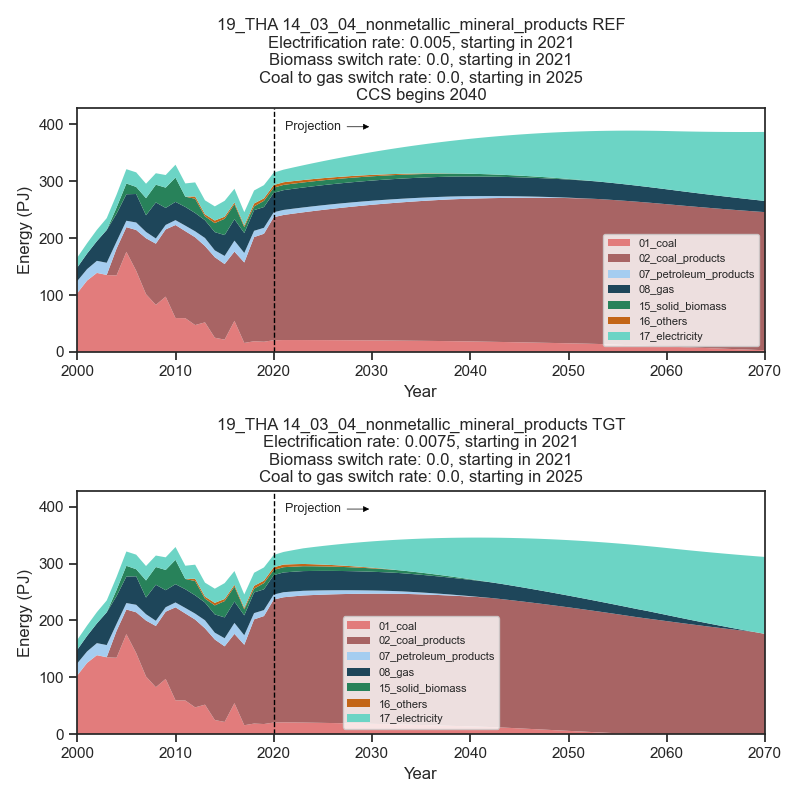
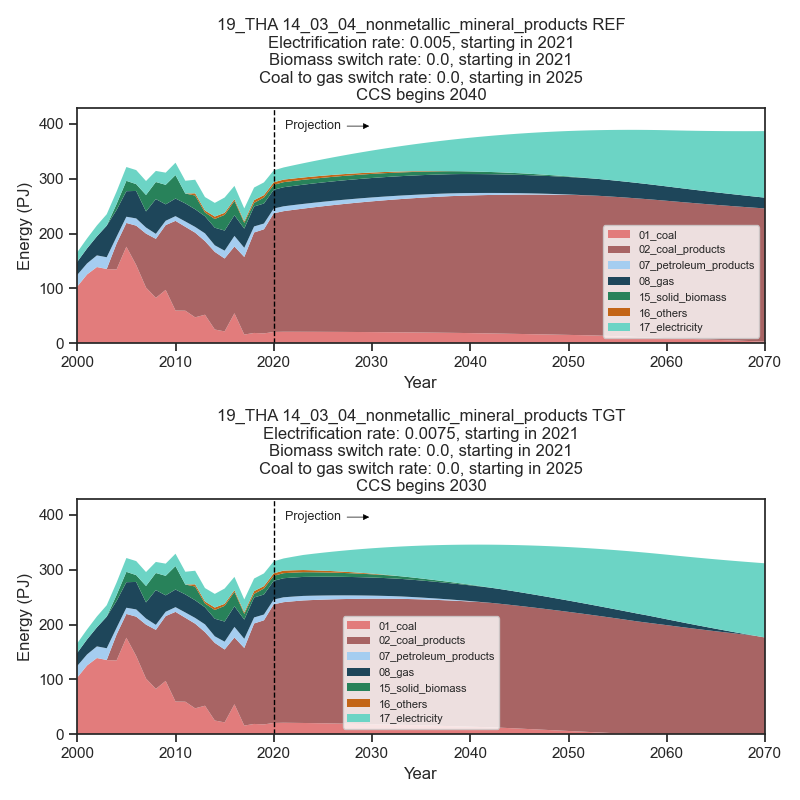
CCS_update II

Changed region(s): [[0.0, 0.1875, 0.9688, 0.8438], [0.0312, 0.625, 0.0938, 0.6562], [0.0625, 0.8438, 0.0938, 0.875]]

diff --git a/workflow/scripts/f2_fuel_switch_function.py b/workflow/scripts/f2_fuel_switch_function.py
@@ -94,12 +94,17 @@ def fuel_switch(economy = '01_AUS',
                 hyd_start_tgt = 2030,
                 hyd_increment_ref = 0.005,
                 hyd_increment_tgt = 0.01,
+                ccs_additional = 0.2,
                 ccs_ref = False,
                 ccs_tgt = False,
                 ccs_start_ref = 2040,
                 ccs_start_tgt = 2030,
                 ccs_increment_ref = 0.005,
-                ccs_increment_tgt = 0.01):
+                ccs_increment_tgt = 0.0075):
+    """Function to layer in different types of fuel switching for all APEC economies and for all inustry subsectors.
+    Electrification, biomass switching, and coal-to-gas are first incorporated by specifying start date and pace of switch.
+    Next hydrogen-based production is chosen, along with a start date and rate. The same is in place for CCS technologies.
+    CCS also require assumption about additional energy required for CCS unit."""
     
     # Save location for charts and data
     save_location = './results/industry/3_fuel_switch/{}/'.format(economy)
@@ -387,62 +392,75 @@ def fuel_switch(economy = '01_AUS',
         
         hyd_ref.to_csv(hyd_ccs_location + economy + '_' + sector + '_hydrogen_ref.csv', index = False)
 
-        # Set-up for CCS (require snapshot of switched_ref for calcs below)
-        switched_ref_calcs2 = switched_ref.copy()
+    # Set-up for CCS (require snapshot of switched_ref for calcs below)
+    switched_ref_calcs2 = switched_ref.copy()
 
-        # Now layer in CCS for REF
-        if (sector in (ind2[:2] + ind2[3:4])) & (ccs_ref):
-            ccs_reference = ccs_tech(start_year = ccs_start_ref, increment = ccs_increment_ref)
-            ccs_ref_df = pd.DataFrame()
-            for ccs_year in range(ccs_start_ref, proj_years[-1] + 1, 1):
-                ccs_df = switched_ref.loc[switched_ref['year'] == ccs_year, ['fuels', 'energy']].copy().reset_index(drop = True)
-                ccs_df = ccs_df[ccs_df['fuels'].isin(ccs_fuels)].copy().reset_index(drop = True)
+    # Now layer in CCS for REF
+    if (sector in (ind2[:2] + ind2[3:4])) & (ccs_ref):
+        ccs_reference = ccs_tech(start_year = ccs_start_ref, increment = ccs_increment_ref)
+        ccs_ref_df = pd.DataFrame()
+        for ccs_year in range(ccs_start_ref, proj_years[-1] + 1, 1):
+            ccs_df = switched_ref.loc[switched_ref['year'] == ccs_year, ['fuels', 'energy']].copy().reset_index(drop = True)
+            ccs_df = ccs_df[ccs_df['fuels'].isin(ccs_fuels)].copy().reset_index(drop = True)
+            
+            ccs_df['share'] = ccs_df['energy'] / total_ref[ccs_year]
+            ccs_df['year'] = ccs_year
+            ccs_df['new_energy'] = ccs_df['energy'] * ccs_reference.loc[ccs_reference['year'] == ccs_year, 'share'].values[0]
+
+            # Amend original data frame
+            for fuel in ccs_df['fuels'].unique():
+                relevant_fuel = (switched_ref['fuels'] == fuel)
+                relevant_year = (switched_ref['year'] == ccs_year)
+                switched_ref.loc[(relevant_fuel) & (relevant_year), 'energy'] = switched_ref_calcs2.loc[(relevant_fuel) & (relevant_year), 'energy'].values[0] *\
+                    (1 - ccs_reference.loc[ccs_reference['year'] == ccs_year, 'share'].values[0])
                 
-                ccs_df['share'] = ccs_df['energy'] / total_ref[ccs_year]
-                ccs_df['year'] = ccs_year
-                ccs_df['new_energy'] = ccs_df['energy'] * ccs_reference.loc[ccs_reference['year'] == ccs_year, 'share'].values[0]
-
-                # Amend original data frame
-                for fuel in ccs_df['fuels'].unique():
-                    relevant_fuel = (switched_ref['fuels'] == fuel)
-                    relevant_year = (switched_ref['year'] == ccs_year)
-                    switched_ref.loc[(relevant_fuel) & (relevant_year), 'energy'] = switched_ref_calcs2.loc[(relevant_fuel) & (relevant_year), 'energy'].values[0] *\
-                        (1 - ccs_reference.loc[ccs_reference['year'] == ccs_year, 'share'].values[0])
-
-                ccs_ref_df = pd.concat([ccs_ref_df, ccs_df]).copy().reset_index(drop = True)
+            ccs_energy = ccs_df[ccs_df['year'] == ccs_year]['energy'].sum()
+                
+            # Now add in additional electricity to run the CCS unit
+            additional_data = ['17_electricity', 0.0, ccs_additional, ccs_year, 
+                              ccs_additional * ccs_energy * ccs_reference.loc[ccs_reference['year'] == ccs_year, 'share'].values[0]]
             
-            # Metadata
-            ccs_ref_df['scenarios'] = 'reference'
-            ccs_ref_df['economy'] = economy
-            ccs_ref_df['sectors'] = '14_industry_sector'
-            ccs_ref_df['sub1sectors'] = '14_03_manufacturing'
-            ccs_ref_df['sub2sectors'] = sector
-            if sector == ind2[0]:
-                ccs_ref_df['sub3sectors'] = '14_03_01_03_ccs'
-            elif sector == ind2[1]:
-                ccs_ref_df['sub3sectors'] = '14_03_02_02_ccs'
-            elif sector == ind2[3]:
-                ccs_ref_df['sub3sectors'] = '14_03_04_01_ccs'
-            ccs_ref_df['subfuels'] = 'x'
+            additional_df = pd.DataFrame(additional_data).transpose()
+            additional_df.columns = ccs_df.columns
 
-            ccs_ref_df = ccs_ref_df[['scenarios', 'economy', 'sectors', 'sub1sectors', 'sub2sectors', 'sub3sectors', 'fuels', 'subfuels', 'year', 'new_energy']].copy()\
-                .rename(columns = {'new_energy': 'energy'}).sort_values(['year', 'fuels']).reset_index(drop = True)
-            
-            ccs_ref_df.to_csv(hyd_ccs_location + economy + '_' + sector + '_ccs_ref.csv', index = False) 
+            ccs_df = pd.concat([ccs_df, additional_df])
 
-        # Now aggregate hydorgen results with steel
-        switched_ref = switched_ref.merge(hyd_ref.drop(['sub3sectors'], axis = 1), how = 'outer',
-                                          on = ['scenarios', 'economy', 'sectors', 'sub1sectors', 'sub2sectors', 'fuels', 'subfuels', 'year']).reset_index(drop = True)
+            ccs_ref_df = pd.concat([ccs_ref_df, ccs_df]).copy().reset_index(drop = True)
         
-        switched_ref['energy'] = switched_ref['energy_x'].fillna(0) + switched_ref['energy_y'].fillna(0)        
-        switched_ref = switched_ref.drop(['energy_x', 'energy_y'], axis = 1)
+        # Metadata
+        ccs_ref_df['scenarios'] = 'reference'
+        ccs_ref_df['economy'] = economy
+        ccs_ref_df['sectors'] = '14_industry_sector'
+        ccs_ref_df['sub1sectors'] = '14_03_manufacturing'
+        ccs_ref_df['sub2sectors'] = sector
+        if sector == ind2[0]:
+            ccs_ref_df['sub3sectors'] = '14_03_01_03_ccs'
+        elif sector == ind2[1]:
+            ccs_ref_df['sub3sectors'] = '14_03_02_02_ccs'
+        elif sector == ind2[3]:
+            ccs_ref_df['sub3sectors'] = '14_03_04_01_ccs'
+        ccs_ref_df['subfuels'] = 'x'
+
+        ccs_ref_df = ccs_ref_df[['scenarios', 'economy', 'sectors', 'sub1sectors', 'sub2sectors', 'sub3sectors', 'fuels', 'subfuels', 'year', 'new_energy']].copy()\
+            .rename(columns = {'new_energy': 'energy'}).sort_values(['year', 'fuels']).reset_index(drop = True)
+        
+        ccs_ref_df.to_csv(hyd_ccs_location + economy + '_' + sector + '_ccs_ref.csv', index = False) 
+
+        # Now aggregate hydorgen-based production results
+        if hydrogen_ref: 
+            switched_ref = switched_ref.merge(hyd_ref.drop(['sub3sectors'], axis = 1), how = 'outer',
+                                            on = ['scenarios', 'economy', 'sectors', 'sub1sectors', 'sub2sectors', 'fuels', 'subfuels', 'year']).reset_index(drop = True)
+            
+            switched_ref['energy'] = switched_ref['energy_x'].fillna(0) + switched_ref['energy_y'].fillna(0)        
+            switched_ref = switched_ref.drop(['energy_x', 'energy_y'], axis = 1)
 
         # Now do the same addition but for the CCS results
-        switched_ref = switched_ref.merge(ccs_ref_df.drop(['sub3sectors'], axis = 1), how = 'outer',
-                                          on = ['scenarios', 'economy', 'sectors', 'sub1sectors', 'sub2sectors', 'fuels', 'subfuels', 'year']).reset_index(drop = True)
-        
-        switched_ref['energy'] = switched_ref['energy_x'].fillna(0) + switched_ref['energy_y'].fillna(0)
-        switched_ref = switched_ref.drop(['energy_x', 'energy_y'], axis = 1)
+        if ccs_ref:
+            switched_ref = switched_ref.merge(ccs_ref_df.drop(['sub3sectors'], axis = 1), how = 'outer',
+                                            on = ['scenarios', 'economy', 'sectors', 'sub1sectors', 'sub2sectors', 'fuels', 'subfuels', 'year']).reset_index(drop = True)
+            
+            switched_ref['energy'] = switched_ref['energy_x'].fillna(0) + switched_ref['energy_y'].fillna(0)
+            switched_ref = switched_ref.drop(['energy_x', 'energy_y'], axis = 1)
 
         switched_ref = switched_ref.sort_values(['year', 'fuels']).copy().reset_index(drop = True)
 
@@ -533,62 +551,75 @@ def fuel_switch(economy = '01_AUS',
         
         hyd_tgt.to_csv(hyd_ccs_location + economy + '_' + sector + '_hydrogen_tgt.csv', index = False)
 
-        # Set-up for CCS (require snapshot of switched_ref for calcs below)
-        switched_tgt_calcs2 = switched_tgt.copy()
+    # Set-up for CCS (require snapshot of switched_ref for calcs below)
+    switched_tgt_calcs2 = switched_tgt.copy()
 
-        # Now layer in CCS for TGT
-        if (sector in (ind2[:2] + ind2[3:4])) & (ccs_tgt):
-            ccs_target = ccs_tech(start_year = ccs_start_tgt, increment = ccs_increment_tgt)
-            ccs_tgt_df = pd.DataFrame()
-            for ccs_year in range(ccs_start_tgt, proj_years[-1] + 1, 1):
-                ccs_df = switched_tgt.loc[switched_tgt['year'] == ccs_year, ['fuels', 'energy']].copy().reset_index(drop = True)
-                ccs_df = ccs_df[ccs_df['fuels'].isin(ccs_fuels)].copy().reset_index(drop = True)
+    # Now layer in CCS for TGT
+    if (sector in (ind2[:2] + ind2[3:4])) & (ccs_tgt):
+        ccs_target = ccs_tech(start_year = ccs_start_tgt, increment = ccs_increment_tgt)
+        ccs_tgt_df = pd.DataFrame()
+        for ccs_year in range(ccs_start_tgt, proj_years[-1] + 1, 1):
+            ccs_df = switched_tgt.loc[switched_tgt['year'] == ccs_year, ['fuels', 'energy']].copy().reset_index(drop = True)
+            ccs_df = ccs_df[ccs_df['fuels'].isin(ccs_fuels)].copy().reset_index(drop = True)
+            
+            ccs_df['share'] = ccs_df['energy'] / total_tgt[ccs_year]
+            ccs_df['year'] = ccs_year
+            ccs_df['new_energy'] = ccs_df['energy'] * ccs_target.loc[ccs_target['year'] == ccs_year, 'share'].values[0]
+
+            # Amend original data frame
+            for fuel in ccs_df['fuels'].unique():
+                relevant_fuel = (switched_tgt['fuels'] == fuel)
+                relevant_year = (switched_tgt['year'] == ccs_year)
+                switched_tgt.loc[(relevant_fuel) & (relevant_year), 'energy'] = switched_tgt_calcs2.loc[(relevant_fuel) & (relevant_year), 'energy'].values[0] *\
+                    (1 - ccs_target.loc[ccs_target['year'] == ccs_year, 'share'].values[0])
                 
-                ccs_df['share'] = ccs_df['energy'] / total_tgt[ccs_year]
-                ccs_df['year'] = ccs_year
-                ccs_df['new_energy'] = ccs_df['energy'] * ccs_target.loc[ccs_target['year'] == ccs_year, 'share'].values[0]
-
-                # Amend original data frame
-                for fuel in ccs_df['fuels'].unique():
-                    relevant_fuel = (switched_tgt['fuels'] == fuel)
-                    relevant_year = (switched_tgt['year'] == ccs_year)
-                    switched_tgt.loc[(relevant_fuel) & (relevant_year), 'energy'] = switched_tgt_calcs2.loc[(relevant_fuel) & (relevant_year), 'energy'].values[0] *\
-                        (1 - ccs_target.loc[ccs_target['year'] == ccs_year, 'share'].values[0])
-
-                ccs_tgt_df = pd.concat([ccs_tgt_df, ccs_df]).copy().reset_index(drop = True)
+            ccs_energy = ccs_df[ccs_df['year'] == ccs_year]['energy'].sum()
+                
+            # Now add in additional electricity to run the CCS unit
+            additional_data = ['17_electricity', 0.0, ccs_additional, ccs_year, 
+                              ccs_additional * ccs_energy * ccs_target.loc[ccs_target['year'] == ccs_year, 'share'].values[0]]
             
-            # Metadata
-            ccs_tgt_df['scenarios'] = 'target'
-            ccs_tgt_df['economy'] = economy
-            ccs_tgt_df['sectors'] = '14_industry_sector'
-            ccs_tgt_df['sub1sectors'] = '14_03_manufacturing'
-            ccs_tgt_df['sub2sectors'] = sector
-            if sector == ind2[0]:
-                ccs_tgt_df['sub3sectors'] = '14_03_01_03_ccs'
-            elif sector == ind2[1]:
-                ccs_tgt_df['sub3sectors'] = '14_03_02_02_ccs'
-            elif sector == ind2[3]:
-                ccs_tgt_df['sub3sectors'] = '14_03_04_01_ccs'
-            ccs_tgt_df['subfuels'] = 'x'
+            additional_df = pd.DataFrame(additional_data).transpose()
+            additional_df.columns = ccs_df.columns
 
-            ccs_tgt_df = ccs_tgt_df[['scenarios', 'economy', 'sectors', 'sub1sectors', 'sub2sectors', 'sub3sectors', 'fuels', 'subfuels', 'year', 'new_energy']].copy()\
-                .rename(columns = {'new_energy': 'energy'}).sort_values(['year', 'fuels']).reset_index(drop = True)
-            
-            ccs_tgt_df.to_csv(hyd_ccs_location + economy + '_' + sector + '_ccs_tgt.csv', index = False)
+            ccs_df = pd.concat([ccs_df, additional_df])
 
-        # Now aggregate hydorgen results with steel
-        switched_tgt = switched_tgt.merge(hyd_tgt.drop(['sub3sectors'], axis = 1), how = 'outer',
-                                          on = ['scenarios', 'economy', 'sectors', 'sub1sectors', 'sub2sectors', 'fuels', 'subfuels', 'year']).reset_index(drop = True)
+            ccs_tgt_df = pd.concat([ccs_tgt_df, ccs_df]).copy().reset_index(drop = True)
         
-        switched_tgt['energy'] = switched_tgt['energy_x'].fillna(0) + switched_tgt['energy_y'].fillna(0)        
-        switched_tgt = switched_tgt.drop(['energy_x', 'energy_y'], axis = 1)
+        # Metadata
+        ccs_tgt_df['scenarios'] = 'target'
+        ccs_tgt_df['economy'] = economy
+        ccs_tgt_df['sectors'] = '14_industry_sector'
+        ccs_tgt_df['sub1sectors'] = '14_03_manufacturing'
+        ccs_tgt_df['sub2sectors'] = sector
+        if sector == ind2[0]:
+            ccs_tgt_df['sub3sectors'] = '14_03_01_03_ccs'
+        elif sector == ind2[1]:
+            ccs_tgt_df['sub3sectors'] = '14_03_02_02_ccs'
+        elif sector == ind2[3]:
+            ccs_tgt_df['sub3sectors'] = '14_03_04_01_ccs'
+        ccs_tgt_df['subfuels'] = 'x'
+
+        ccs_tgt_df = ccs_tgt_df[['scenarios', 'economy', 'sectors', 'sub1sectors', 'sub2sectors', 'sub3sectors', 'fuels', 'subfuels', 'year', 'new_energy']].copy()\
+            .rename(columns = {'new_energy': 'energy'}).sort_values(['year', 'fuels']).reset_index(drop = True)
+        
+        ccs_tgt_df.to_csv(hyd_ccs_location + economy + '_' + sector + '_ccs_tgt.csv', index = False)
+
+        # Now aggregate hydorgen-based production results
+        if hydrogen_tgt: 
+            switched_tgt = switched_tgt.merge(hyd_tgt.drop(['sub3sectors'], axis = 1), how = 'outer',
+                                            on = ['scenarios', 'economy', 'sectors', 'sub1sectors', 'sub2sectors', 'fuels', 'subfuels', 'year']).reset_index(drop = True)
+            
+            switched_tgt['energy'] = switched_tgt['energy_x'].fillna(0) + switched_tgt['energy_y'].fillna(0)        
+            switched_tgt = switched_tgt.drop(['energy_x', 'energy_y'], axis = 1)
 
         # Now do the same addition but for the CCS results
-        switched_tgt = switched_tgt.merge(ccs_tgt_df.drop(['sub3sectors'], axis = 1), how = 'outer',
-                                          on = ['scenarios', 'economy', 'sectors', 'sub1sectors', 'sub2sectors', 'fuels', 'subfuels', 'year']).reset_index(drop = True)
-        
-        switched_tgt['energy'] = switched_tgt['energy_x'].fillna(0) + switched_tgt['energy_y'].fillna(0)
-        switched_tgt = switched_tgt.drop(['energy_x', 'energy_y'], axis = 1)
+        if ccs_tgt:
+            switched_tgt = switched_tgt.merge(ccs_tgt_df.drop(['sub3sectors'], axis = 1), how = 'outer',
+                                            on = ['scenarios', 'economy', 'sectors', 'sub1sectors', 'sub2sectors', 'fuels', 'subfuels', 'year']).reset_index(drop = True)
+            
+            switched_tgt['energy'] = switched_tgt['energy_x'].fillna(0) + switched_tgt['energy_y'].fillna(0)
+            switched_tgt = switched_tgt.drop(['energy_x', 'energy_y'], axis = 1)
 
         switched_tgt = switched_tgt.sort_values(['year', 'fuels']).copy().reset_index(drop = True)    
 
@@ -761,4 +792,4 @@ def fuel_switch(economy = '01_AUS',
 
 
 # Iron and steel
-fuel_switch(economy = '19_THA', sector = ind2[3], hydrogen_ref = False, hydrogen_tgt = False, ccs_ref = True)
+fuel_switch(economy = '19_THA', sector = ind2[1], hydrogen_ref = False, hydrogen_tgt = False, ccs_ref = True, ccs_tgt = True)
